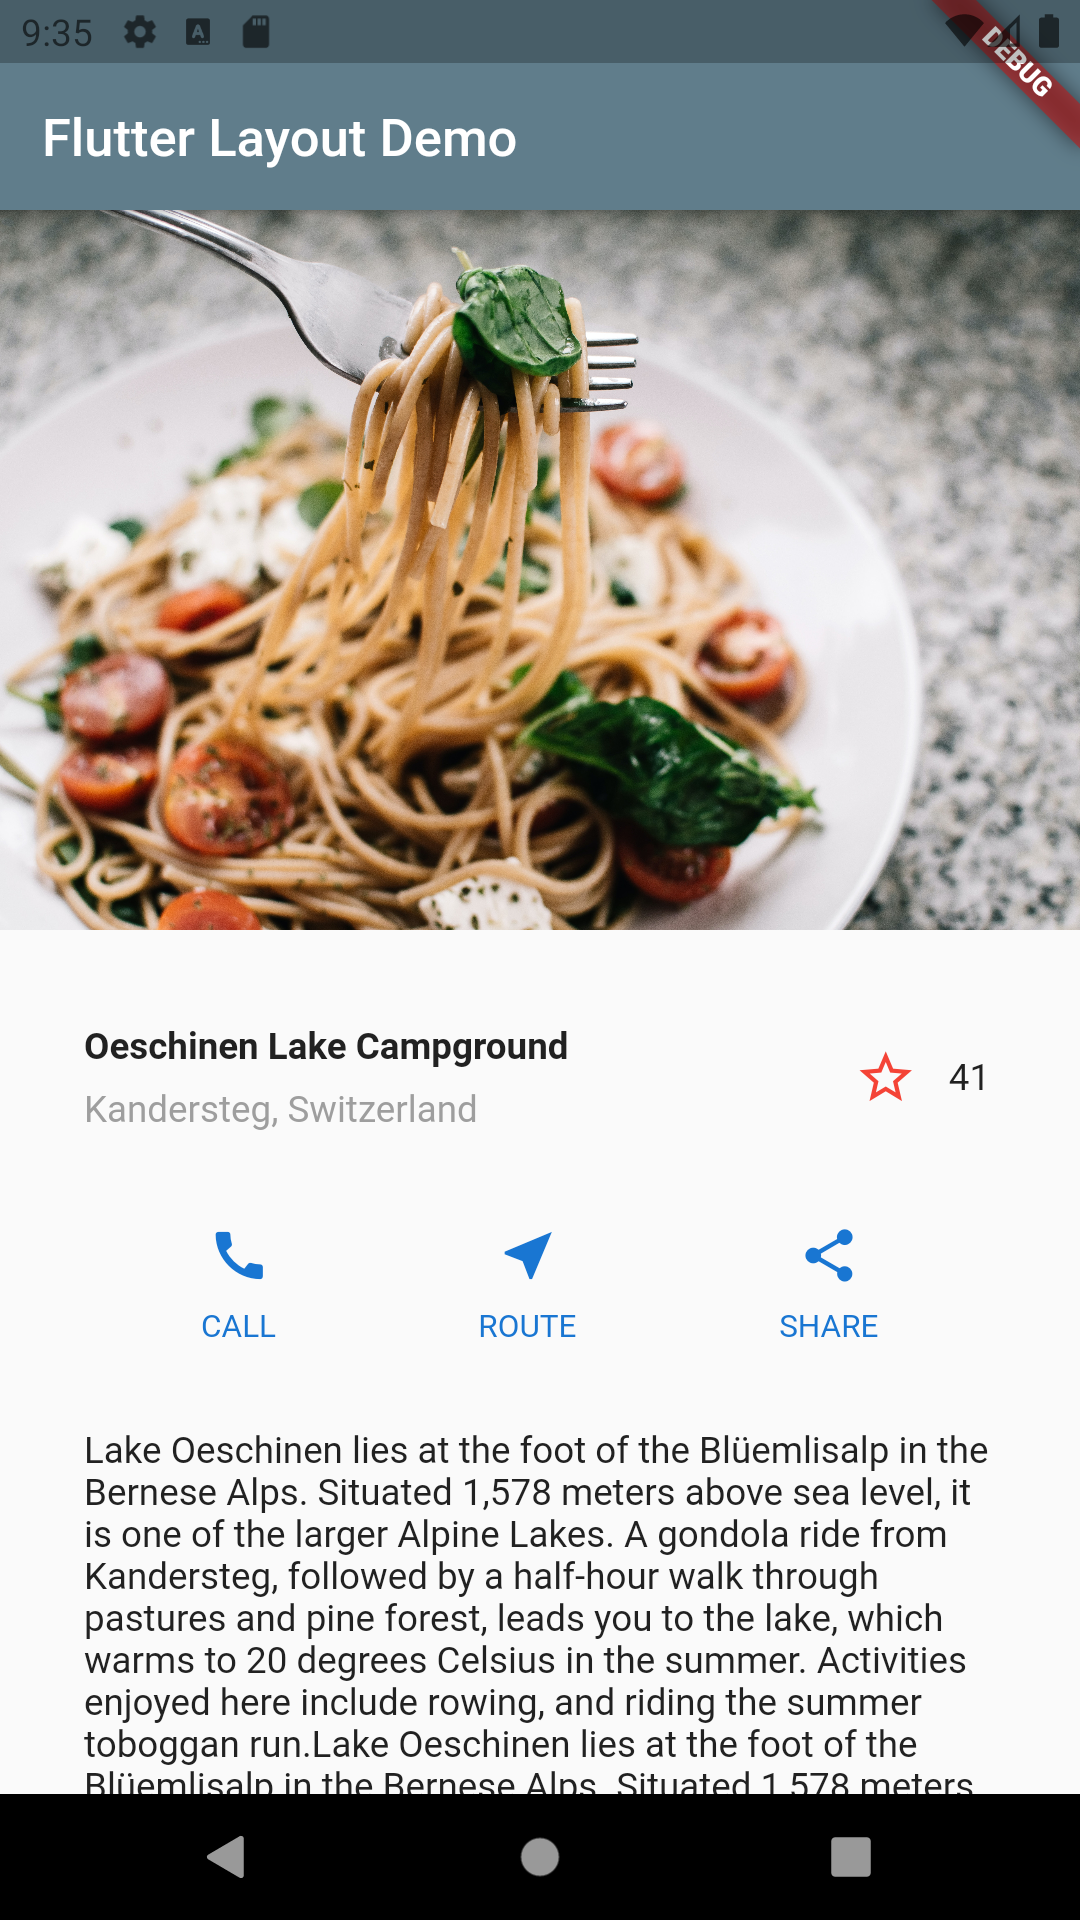
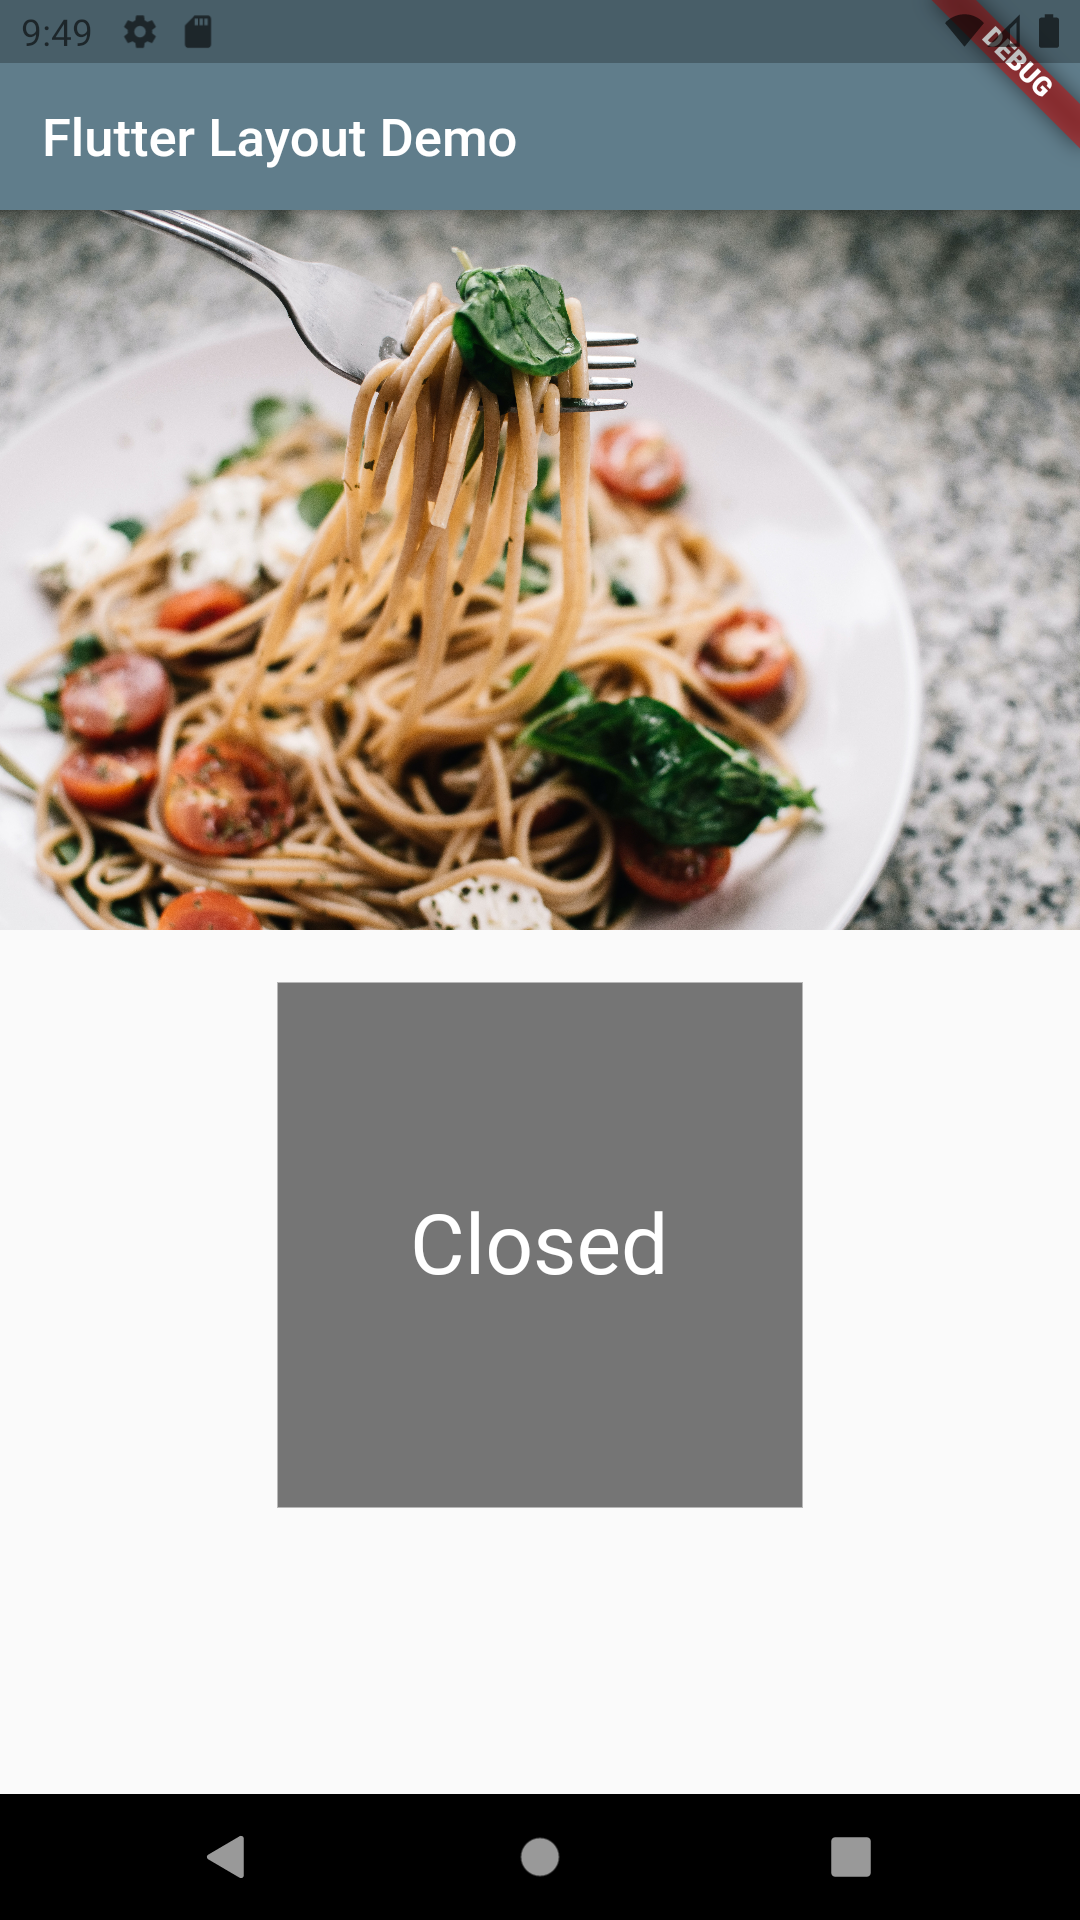
State Mgmt | Parent maintaing child state | Mix Approach

diff --git a/lib/main.dart b/lib/main.dart
@@ -1,105 +1,14 @@
 import 'package:flutter/material.dart';
-
+import 'dart:developer';
 void main() {
   runApp(MyApp());
 }
 
 class MyApp extends StatelessWidget {
-
-
-
-  Widget titleSection = Container(
-    padding: const EdgeInsets.all(32),
-    child: Row(
-      children: [
-        Expanded(
-          /*1*/
-          child: Column(
-            crossAxisAlignment: CrossAxisAlignment.start,
-            children: [
-              /*2*/
-              Container(
-                padding: const EdgeInsets.only(bottom: 8),
-                child: Text(
-                  'Oeschinen Lake Campground',
-                  style: TextStyle(
-                    fontWeight: FontWeight.bold,
-                  ),
-                ),
-              ),
-              Text(
-                'Kandersteg, Switzerland',
-                style: TextStyle(
-                  color: Colors.grey[500],
-                ),
-              ),
-            ],
-          ),
-        ),
-        /*3*/
-
-         FavoriteWidget()
-
-      ],
-    ),
-  );
-
-  static Column _buildButtonColumn(Color color, IconData icon, String label) {
-    return Column(
-      mainAxisSize: MainAxisSize.min,
-      mainAxisAlignment: MainAxisAlignment.center,
-      children: [
-        Icon(icon, color: color),
-        Container(
-          margin: const EdgeInsets.only(top: 8),
-          child: Text(
-            label,
-            style: TextStyle(
-              fontSize: 12,
-              fontWeight: FontWeight.w400,
-              color: color,
-            ),
-          ),
-        ),
-      ],
-    );
-  }
-
-  static Color color = Colors.blue[700];
-
-  Widget buttonSection = Container(
-    child: Row(
-      mainAxisAlignment: MainAxisAlignment.spaceEvenly,
-      children: [
-        _buildButtonColumn(color, Icons.call, 'CALL'),
-        _buildButtonColumn(color, Icons.near_me, 'ROUTE'),
-        _buildButtonColumn(color, Icons.share, 'SHARE'),
-      ],
-    ),
-  );
-
-  Widget textSection = Container(
-    padding: const EdgeInsets.all(32),
-    child: Text(
-      'Lake Oeschinen lies at the foot of the Blüemlisalp in the Bernese '
-          'Alps. Situated 1,578 meters above sea level, it is one of the '
-          'larger Alpine Lakes. A gondola ride from Kandersteg, followed by a '
-          'half-hour walk through pastures and pine forest, leads you to the '
-          'lake, which warms to 20 degrees Celsius in the summer. Activities '
-          'enjoyed here include rowing, and riding the summer toboggan run.'
-          'Lake Oeschinen lies at the foot of the Blüemlisalp in the Bernese '
-          'Alps. Situated 1,578 meters above sea level, it is one of the '
-          'larger Alpine Lakes. A gondola ride from Kandersteg, followed by a '
-          'half-hour walk through pastures and pine forest, leads you to the '
-          'lake, which warms to 20 degrees Celsius in the summer. Activities '
-          'enjoyed here include rowing, and riding the summer toboggan run.',
-      softWrap: true,
-    ),
-  );
-
   // This widget is the root of your application.
   @override
   Widget build(BuildContext context) {
+    log('MyApp build');
     return MaterialApp(
         title: 'Flutter Layout Demo',
         theme: ThemeData(
@@ -113,73 +22,117 @@ class MyApp extends StatelessWidget {
           ),
           body: ListView(
             children: [
-
               Image.asset(
-                  'images/mainimage.jpg',
-
-                  fit: BoxFit.cover,
-                  ),
-              titleSection,
-              buttonSection,
-              textSection
+                'images/mainimage.jpg',
+                fit: BoxFit.cover,
+              ),
+              _ParentWidget()
             ],
           ),
         ));
   }
-
-
 }
 
-class FavoriteWidget extends StatefulWidget{
-
-
+class _ParentWidget extends StatefulWidget {
   @override
-  _FavoriteWidgetState createState() {
+  _ParentWidgetState createState() {
     // TODO: implement createState
-    return _FavoriteWidgetState();
+    return _ParentWidgetState();
   }
-
 }
 
-class _FavoriteWidgetState extends State<FavoriteWidget> {
-  bool _isFavorited = true;
+class _ParentWidgetState extends State<_ParentWidget> {
+  bool _active = false;
   int _favoriteCount = 42;
 
-  void _toggeleFavorite(){
-    setState(() {
-      if(_isFavorited){
-        _isFavorited=false;
-        _favoriteCount=_favoriteCount-1;
-      }else{
-        _isFavorited=true;
-        _favoriteCount=_favoriteCount+1;
-      }
-    });
-}
+  void _handleTapboxChanged(bool newValue) => {
+        setState(() {
+          _active = newValue;
+        })
+      };
 
   @override
   Widget build(BuildContext context) {
     // TODO: implement build
-    return Row(
-      mainAxisSize: MainAxisSize.min,
-      children: [
-        Container(
-          padding: EdgeInsets.all(0),
-          child: IconButton(
-            color: Colors.red[500],
-            padding: EdgeInsets.all(0),
-            icon: _isFavorited?Icon(Icons.star):Icon(Icons.star_border),
-            onPressed: _toggeleFavorite,
-          ),
+    log('_ParentWidgetState build');
+    return Center(
+      child: Container(
+        padding: EdgeInsets.all(20),
+        child: ChildWidget(
+          _active,
+          _handleTapboxChanged,
         ),
-        SizedBox(
-          width: 18,
-          child: Container(
-            child: Text(_favoriteCount.toString()),
-          ),
-        )
+        // child: ChildWidget(this.context, _active, _handleTapboxChanged(_active)),
+      ),
 
-      ],
     );
+  }
+}
+
+class ChildWidget extends StatefulWidget {
+  bool active;
+  final ValueChanged<bool> onChanged;
+
+  ChildWidget(this.active, this.onChanged);
+
+
+
+
+
+
+
+  @override
+  State<StatefulWidget> createState() {
+    // TODO: implement createState
+    return ChildState();
+  }
+}
+
+class ChildState extends State<ChildWidget> {
+  bool highlight=false;
+
+  @override
+  Widget build(BuildContext context) {
+    // TODO: implement build
+    log('ChildWidget build');
+    return GestureDetector(
+      child: Container(
+        child: Center(
+          child: Text(widget.active ? 'Open' : 'Closed',
+              style: TextStyle(fontSize: 32.0, color: Colors.white)),
+        ),
+        width: 200.0,
+        height: 200.0,
+        decoration: BoxDecoration(
+          color: widget.active ? Colors.lightGreen[700] : Colors.grey[600],
+          border: highlight
+              ? Border.all(
+            color: Colors.teal[700],
+            width: 10.0,
+          )
+              : null,
+        ),
+      ),
+      onTap: _handleTap,
+      onTapDown: _handleTapDown,
+      onTapUp: _handleTapUp,
+    );
+  }
+
+  void _handleTap() {
+    widget.onChanged(!widget.active);
+  }
+
+
+  void _handleTapDown(TapDownDetails details) {
+    setState(() {
+      highlight=true;
+    });
+  }
+
+  void _handleTapUp(TapUpDetails details) {
+    setState(() {
+      highlight=false;
+    });
   }
 }

diff --git a/README.md b/README.md
@@ -2,15 +2,20 @@
 
 A new Flutter application.
 
-## Demo 5
+## Demo 6
 
 The objective of this demo is to:
-- Create a custom widget.
-- Changing state of widget. On click of rating icon it toggles is state and count changes.
+- Parent Widget manges child widget state
+- Mix Match Approch: Stateful widget manges some of the states, and parent widget manges other aspects of the state
+
+The TapBox state manage:
+* On tap the color changes to Green or Grey. State is maintained by parent
+* Once tap is down a border is shown, on up it disappears. State is maintained by widget itself i.e child
 
 #### App design ####
-![picture alt](https://raw.githubusercontent.com/HimanshuSharma13/Flutter/feature_d5_stateful_widget/screens/home1.png "App design screens")
-![picture alt](https://raw.githubusercontent.com/HimanshuSharma13/Flutter/feature_d5_stateful_widget/screens/home2.png "App design screens")
+![picture alt](https://raw.githubusercontent.com/HimanshuSharma13/Flutter/feature_d6_state_mgmt/screens/home1.png "App design screens")
+![picture alt](https://raw.githubusercontent.com/HimanshuSharma13/Flutter/feature_d6_state_mgmt/screens/home2.png "App design screens")
+![picture alt](https://raw.githubusercontent.com/HimanshuSharma13/Flutter/feature_d6_state_mgmt/screens/home3.png "App design screens")
 
 
 A few resources to get you started if this is your first Flutter project:
